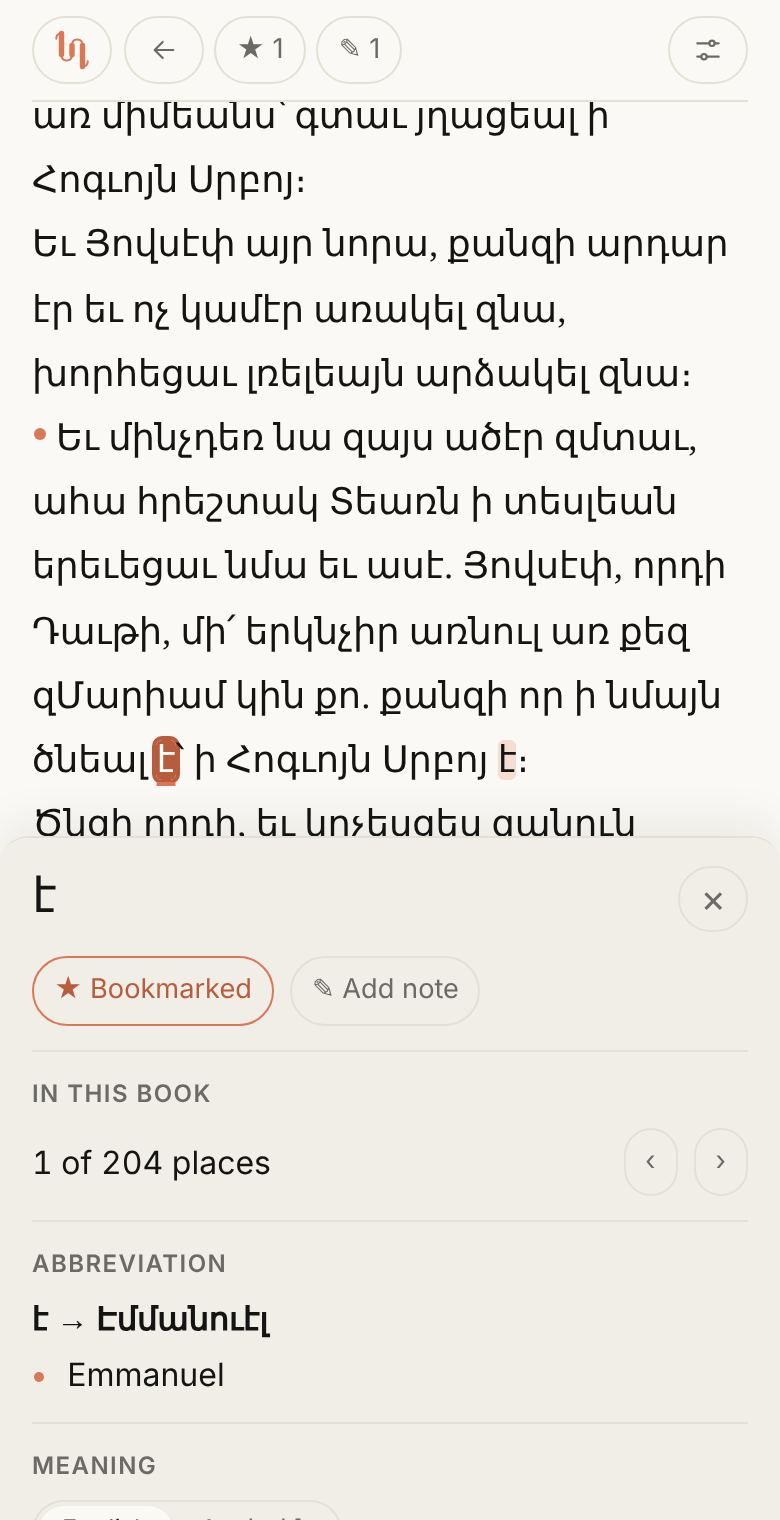
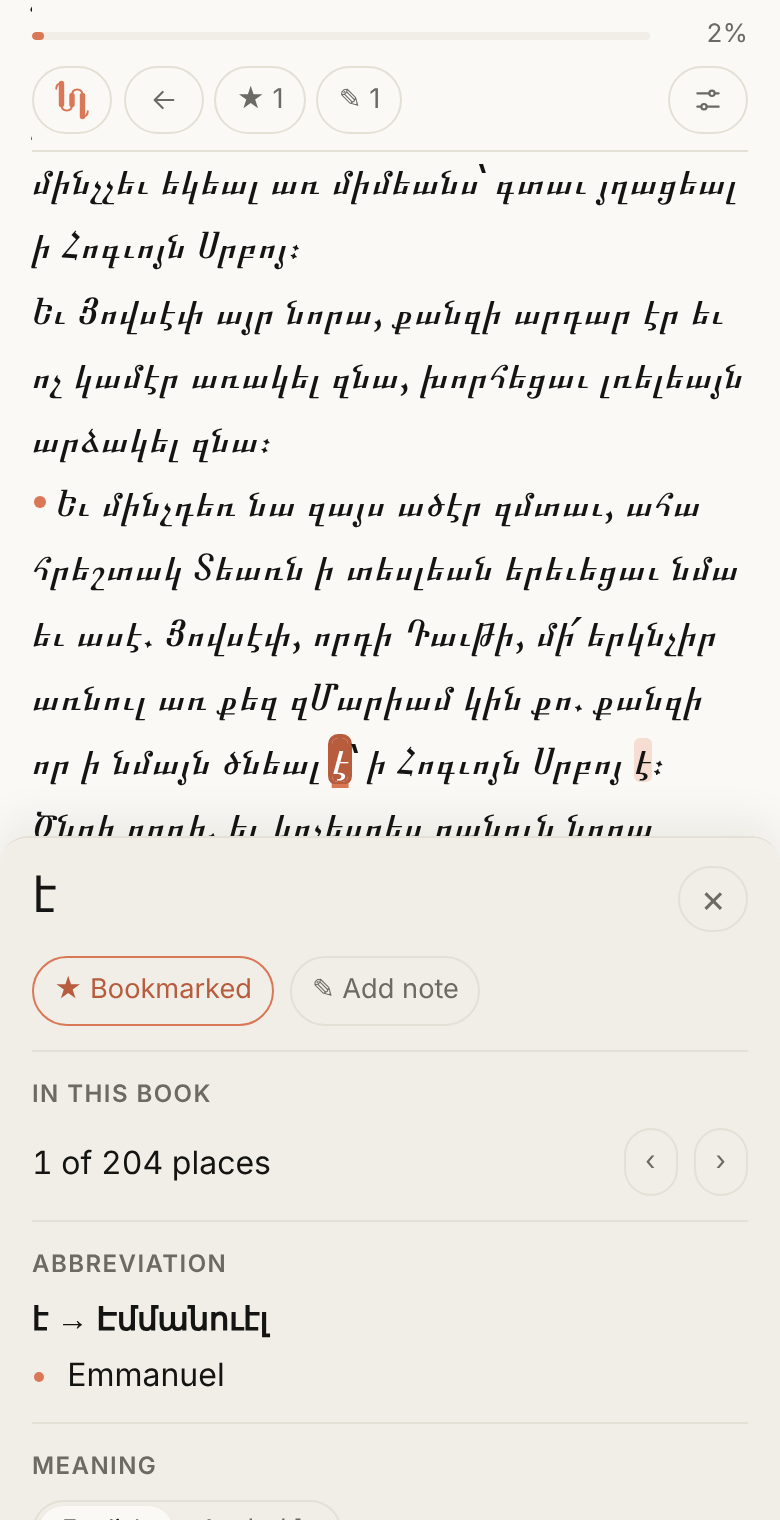
Web reader: show how far the book is scrolled
A thin bar with a percentage above the reader's
buttons, in the sticky toolbar; 100% once the end
of the text is on the screen.

Claude-Session: https://claude.ai/code/session_01MmoF2qyxoB4D2nBrMMMzFR

Changed region(s): [[0.0308, 0.0, 0.9538, 0.5566], [0.8923, 0.0, 0.9538, 0.0928]]

diff --git a/web/app.js b/web/app.js
@@ -1212,6 +1212,7 @@ const R = {
   refs: [], // indexes of words with its key
   panel: null,
   tools: null,
+  prog: null, // the bar of how far in the reader is
   title: "", // of the book open
   head: "", // its first line
   saved: "", // the position last saved
@@ -1504,6 +1505,7 @@ function decorate() {
   const dir = (R.name || R.opening).split("/")
     .slice(0, -1).join("/");
   R.tools.replaceChildren(...[
+    R.prog,
     // the site's mark, once the top bar has
     // scrolled away (see stick())
     h("a", { class: "icon-btn home", href: "#/",
@@ -1970,8 +1972,28 @@ function stick() {
     R.tools.getBoundingClientRect().top < 1);
 }
 
+// how much of the text has been scrolled past,
+// in the bar above the reader's buttons: 100%
+// once its end is on the screen
+function progress() {
+  if (!R.prog || !R.text?.isConnected) return;
+  const r = R.text.getBoundingClientRect();
+  const seen = window.innerHeight - r.top;
+  const f = r.height > 0
+    ? Math.min(1, Math.max(0, seen / r.height)) : 1;
+  const pct = Math.round(f * 100);
+  R.prog.firstChild.firstChild.style.width =
+    pct + "%";
+  R.prog.lastChild.textContent = pct + "%";
+  R.prog.setAttribute("aria-valuenow", pct);
+}
+
+window.addEventListener("resize", progress,
+  { passive: true });
+
 window.addEventListener("scroll", () => {
   stick();
+  progress();
   if (!R.name) return;
   clearTimeout(R.timer);
   // the published copy only writes to this
@@ -2154,6 +2176,11 @@ async function book(name) {
     "aria-label": "Word", "aria-live": "polite" });
   R.panel.hidden = true;
   R.tools = h("div", { class: "tools" });
+  R.prog = h("div", { class: "readbar",
+    role: "progressbar", "aria-label": "Read",
+    "aria-valuemin": "0", "aria-valuemax": "100" },
+  h("span", { class: "track" }, h("span")),
+  h("span", { class: "pct" }, "0%"));
   document.body.classList.add("reading");
   show(crumbs(name, false), h("h1", {}, title),
     h("p", { class: "sub" },
@@ -2169,6 +2196,7 @@ async function book(name) {
     window.scrollTo(0, top - bar() - 16);
   }
   stick();
+  progress();
   // from now on scrolling is saved
   R.name = name;
   R.title = title;

diff --git a/web/style.css b/web/style.css
@@ -1136,6 +1136,39 @@ body.reading .bar {
   border-bottom: 1px solid var(--rule);
 }
 
+/* how much of the book is scrolled past, above
+   the reader's buttons */
+.tools .readbar {
+  display: flex;
+  flex-basis: 100%;
+  align-items: center;
+  gap: 0.5rem;
+}
+
+.readbar .track {
+  flex: 1;
+  height: 4px;
+  overflow: hidden;
+  background: var(--surface);
+  border-radius: 999px;
+}
+
+.readbar .track span {
+  display: block;
+  width: 0;
+  height: 100%;
+  background: var(--accent);
+  border-radius: 999px;
+}
+
+.readbar .pct {
+  min-width: 3.2em;
+  font-size: 0.8rem;
+  color: var(--muted);
+  text-align: right;
+  font-variant-numeric: tabular-nums;
+}
+
 .actions {
   display: flex;
   flex-wrap: wrap;
